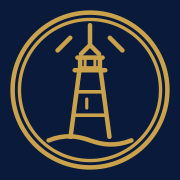
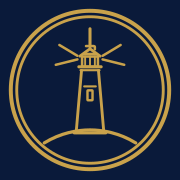
Upgrade lighthouse mark to refined v2 (galerie, angled rays, diamond divider)
The first lighthouse mark was line-art correct but a bit flat. The
v2 design ChatGPT delivered upgrades the same numismatic concept
with sharper detail throughout:

  • Articulated balcony with vertical pillars (galerie)
  • Two pairs of angled beacon rays + a vertical centre ray
    (previous had three rays from the lantern)
  • Small door / window in the tower mid-section
  • Curved editorial horizon at the base
  • Refined ring proportions (r=44/40.7 vs previous 43/39.2)
  • Diamond divider flourish beneath the wordmark — flanked by
    two hairlines, scales with the wordmark size

Files
  M public/voz-clara-mark.svg            v2 source-of-truth
  M public/voz-clara-lockup-h.svg        v2 horizontal lockup
  M public/voz-clara-lockup-v.svg        v2 vertical lockup
  M public/favicon.svg                   v2 paths, navy hairlines
  M public/favicon-{16,32,48}.png        v2 PNG fallbacks
  M public/apple-touch-icon.png          v2 iOS home-screen
  M public/icon-{192,512,512-maskable}.png  v2 PWA icons
  M public/og-image.png                  v2 social card
  M src/components/BrandMark.tsx         inline v2 paths + DiamondDivider
                                         component + vertical hairline
                                         separator in lockup variant

The DiamondDivider is a new internal component — small inline SVG
plus two flex-1 hairlines, all in currentColor so the divider tone
follows the surrounding TONE class (navy / gold / creme).

Changed region(s): [[0.0278, 0.0278, 0.9722, 0.9722]]

diff --git a/src/components/BrandMark.tsx b/src/components/BrandMark.tsx
@@ -1,22 +1,24 @@
 /**
- * BrandMark — official Voz Clara identity.
+ * BrandMark — official Voz Clara identity (v2, refined lighthouse).
  *
  * Three variants:
  *   monogram  — just the seal/lighthouse mark
- *   lockup    — mark + "VOZ · CLARA" wordmark side by side
- *   stacked   — mark above wordmark, centred (for ornaments)
+ *   lockup    — mark + "VOZ · CLARA" wordmark side by side, with
+ *               diamond divider under the wordmark and a vertical
+ *               hairline separator between mark and wordmark
+ *   stacked   — mark above wordmark, centred, with diamond divider
+ *               beneath. Used as an ornament inside hero / footer.
  *
- * The mark is an inline SVG with hairline strokes set to currentColor,
- * so tone (gold / navy / creme) is controlled entirely via CSS. The
- * wordmark is rendered as HTML text using the Cinzel webfont already
- * loaded in index.html — not embedded inside the SVG — so typography
- * stays sharp and we never need to ship the font as glyph paths.
+ * The mark is an inline SVG built from the authoritative source file
+ * (public/voz-clara-mark.svg), with all strokes set to currentColor
+ * so tone follows the surrounding CSS class. The wordmark is HTML
+ * text in Cinzel (loaded from index.html), and the diamond divider
+ * is a small inline SVG so it scales with the wordmark and inherits
+ * the same currentColor.
  *
- * Source: the final "Numismatic Lighthouse Seal" identity by the
- * Voz Clara brand iteration of 2026-05-14. See public/voz-clara-mark.svg
- * for the authoritative source file; this component is a pixel-faithful
- * inline copy of those paths so the React build doesn't depend on a
- * runtime fetch.
+ * vector-effect="non-scaling-stroke" keeps line weight visually
+ * consistent across sizes — essential for the fine balcony pillars
+ * and beacon hairlines to read at 28px without thickening at 88px.
  */
 
 interface Props {
@@ -28,11 +30,11 @@ interface Props {
 }
 
 const MARK_PX: Record<NonNullable<Props['size']>, number> = {
-  xs: 20,
-  sm: 28,
-  md: 36,
-  lg: 56,
-  xl: 88,
+  xs: 22,
+  sm: 30,
+  md: 40,
+  lg: 60,
+  xl: 96,
 };
 
 const WORDMARK_SIZE: Record<NonNullable<Props['size']>, string> = {
@@ -41,6 +43,14 @@ const WORDMARK_SIZE: Record<NonNullable<Props['size']>, string> = {
   md: 'text-sm',
   lg: 'text-base',
   xl: 'text-2xl',
+};
+
+const DIVIDER_W: Record<NonNullable<Props['size']>, string> = {
+  xs: 'w-6',
+  sm: 'w-8',
+  md: 'w-10',
+  lg: 'w-12',
+  xl: 'w-20',
 };
 
 const TONE: Record<NonNullable<Props['tone']>, string> = {
@@ -58,10 +68,10 @@ export function BrandMark({
 }: Props) {
   const markPx = MARK_PX[size];
   const mark = <LighthouseMark size={markPx} decorative={decorative} />;
-  const wordmark = (
+  const wordmarkText = (
     <span
       className={['wordmark whitespace-nowrap', WORDMARK_SIZE[size]].join(' ')}
-      style={{ color: 'inherit', letterSpacing: '0.18em' }}
+      style={{ color: 'inherit', letterSpacing: '0.22em' }}
     >
       VOZ&nbsp;·&nbsp;CLARA
     </span>
@@ -79,24 +89,41 @@ export function BrandMark({
     return (
       <span className={['inline-flex flex-col items-center gap-3', TONE[tone], className].join(' ')}>
         {mark}
-        {wordmark}
+        {wordmarkText}
+        <DiamondDivider width={DIVIDER_W[size]} />
       </span>
     );
   }
 
+  // lockup — mark + vertical hairline + wordmark stack on the right
   return (
     <span className={['inline-flex items-center gap-3', TONE[tone], className].join(' ')}>
       {mark}
-      {wordmark}
+      <span
+        className="h-8 w-px shrink-0"
+        style={{ backgroundColor: 'currentColor', opacity: 0.35 }}
+        aria-hidden
+      />
+      <span className="inline-flex flex-col items-center gap-1.5">
+        {wordmarkText}
+        <DiamondDivider width={DIVIDER_W[size]} />
+      </span>
     </span>
   );
 }
 
 /**
- * The numismatic lighthouse seal. Inlined from voz-clara-mark.svg.
- * All strokes use currentColor so the surrounding TONE class controls
- * the colour. Hairline-friendly: vector-effect="non-scaling-stroke"
- * keeps the line weight visually consistent at any rendered size.
+ * The numismatic lighthouse seal — v2, refined.
+ *
+ * Detail over the v1 mark:
+ *  • Cleaner double-ring frame at r=44/40.7
+ *  • Two pairs of angled beacon rays instead of three vertical ones
+ *  • Articulated balcony with vertical pillars
+ *  • Small door/window in the tower mid-section
+ *  • Curved horizon at the base
+ *
+ * Strokes inherit currentColor; vector-effect keeps line weights
+ * visually constant from 16px favicon to 96px hero mark.
  */
 function LighthouseMark({ size, decorative }: { size: number; decorative: boolean }) {
   return (
@@ -111,40 +138,78 @@ function LighthouseMark({ size, decorative }: { size: number; decorative: boolea
       style={{ flexShrink: 0, display: 'block' }}
     >
       <g
-        stroke="currentColor"
         fill="none"
-        strokeWidth={2.2}
+        stroke="currentColor"
         strokeLinecap="round"
         strokeLinejoin="round"
         vectorEffect="non-scaling-stroke"
       >
         {/* Double numismatic seal */}
-        <circle cx={50} cy={50} r={43} />
-        <circle cx={50} cy={50} r={39.2} strokeWidth={1.65} />
+        <circle cx={50} cy={50} r={44} strokeWidth={2.2} />
+        <circle cx={50} cy={50} r={40.7} strokeWidth={1.6} />
 
-        {/* Three precise beacon rays */}
-        <path d="M50 14 L50 24" />
-        <path d="M39 21 L32 28" />
-        <path d="M61 21 L68 28" />
+        {/* Beacon rays — vertical centre + two angled pairs */}
+        <path d="M50 16V26" strokeWidth={1.7} />
+        <path d="M33 25l10 6" strokeWidth={1.4} />
+        <path d="M67 25l-10 6" strokeWidth={1.4} />
+        <path d="M31 36l12-3" strokeWidth={1.4} />
+        <path d="M69 36l-12-3" strokeWidth={1.4} />
 
-        {/* Lighthouse lantern and cap */}
-        <path d="M45 30 L50 25 L55 30" />
-        <path d="M43 32 H57" />
-        <path d="M44.5 32 V38 H55.5 V32" />
-        <path d="M47.3 32 V38" strokeWidth={1.43} />
-        <path d="M52.7 32 V38" strokeWidth={1.43} />
-        <path d="M41.5 39 H58.5" />
+        {/* Lantern cap (small pediment + roof line) */}
+        <path d="M46.5 30h7" strokeWidth={1.4} />
+        <path d="M47.8 25.6h4.4c.2 0 .5.2.5.5v1.3" strokeWidth={1.4} />
+        <path d="M44.4 31.2l5.6-4.1 5.6 4.1" strokeWidth={1.6} />
 
-        {/* Slim tapered tower */}
-        <path d="M44 40 L39.2 76" />
-        <path d="M56 40 L60.8 76" />
-        <path d="M42.5 51 H57.5" strokeWidth={1.76} />
-        <path d="M41 64 H59" strokeWidth={1.76} />
-        <path d="M48.2 55 V60" strokeWidth={1.54} />
+        {/* Galerie/balcony with vertical pillars */}
+        <path d="M45.6 31.4h8.8v5.7h-8.8z" strokeWidth={1.4} />
+        <path d="M47.3 31.4v5.7M50 31.4v5.7M52.7 31.4v5.7" strokeWidth={1.05} />
+        <path d="M43.8 37.1h12.4" strokeWidth={1.7} />
+        <path d="M44.7 39h10.6" strokeWidth={1.15} />
 
-        {/* Restrained editorial horizon / knowledge line */}
-        <path d="M27 78 C36 74.5 43 75.5 50 78 C57 80.5 64 81.5 73 78" />
+        {/* Tapered tower */}
+        <path d="M45.3 39.1 42.3 73.7M54.7 39.1 57.7 73.7" strokeWidth={1.6} />
+
+        {/* Mid-tower horizontal band */}
+        <path d="M46.8 48h6.4" strokeWidth={1.2} />
+
+        {/* Door / window */}
+        <rect x={48.6} y={50.2} width={2.8} height={5.5} rx={0.2} strokeWidth={1.35} />
+
+        {/* Base plinth */}
+        <path d="M41.2 73.8h17.6" strokeWidth={1.7} />
+
+        {/* Curved editorial horizon */}
+        <path
+          d="M24.6 79.4C33.7 73.8 43 72.2 50 72.2s16.3 1.6 25.4 7.2"
+          strokeWidth={1.8}
+        />
       </g>
     </svg>
+  );
+}
+
+/**
+ * Diamond divider — the editorial flourish used under the wordmark.
+ * Two thin hairlines flanking a 4-point diamond. Width scales with
+ * the surrounding wordmark size (passed via Tailwind w-* class).
+ */
+function DiamondDivider({ width }: { width: string }) {
+  return (
+    <span
+      aria-hidden
+      className={['inline-flex items-center justify-center gap-1.5', width].join(' ')}
+    >
+      <span
+        className="h-px flex-1"
+        style={{ backgroundColor: 'currentColor', opacity: 0.55 }}
+      />
+      <svg width="6" height="6" viewBox="0 0 10 10" style={{ flexShrink: 0 }}>
+        <path d="M5 0 L10 5 L5 10 L0 5 Z" fill="currentColor" />
+      </svg>
+      <span
+        className="h-px flex-1"
+        style={{ backgroundColor: 'currentColor', opacity: 0.55 }}
+      />
+    </span>
   );
 }
